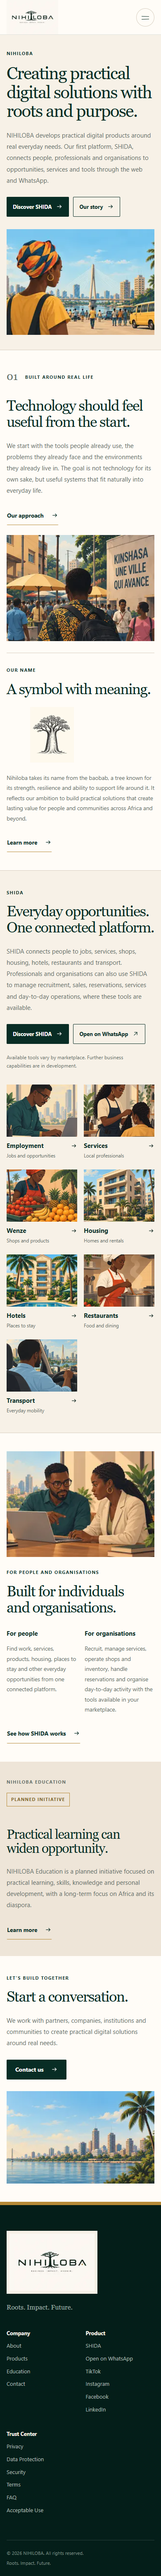
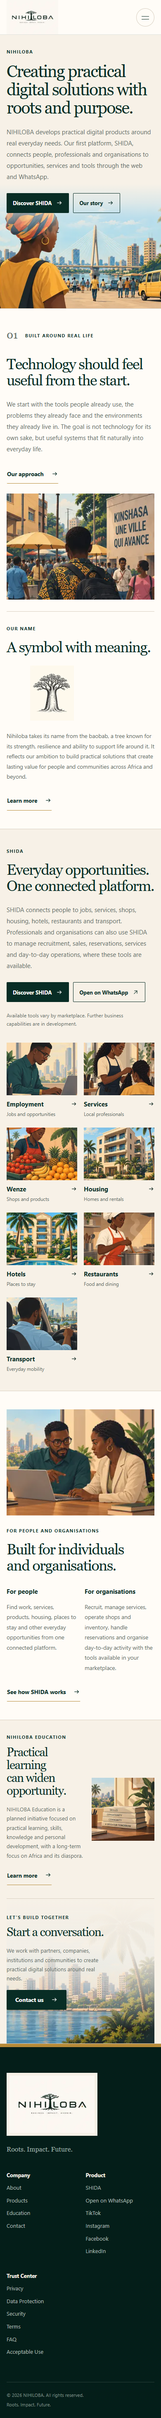
Refine homepage imagery to match editorial mockup
- Add skills illustration to Education
- Blend hero and contact images behind the text
- Place Education and Contact side by side on desktop
- Fix renamed people image reference
- Update EN/FR responsive verification

diff --git a/app/components/pages/home-page.css b/app/components/pages/home-page.css
@@ -10,9 +10,6 @@
 .home-editorial .button-text { min-height: 44px; }
 .home-image { position: relative; min-width: 0; overflow: hidden; aspect-ratio: 4 / 3; background: var(--cream); }
 .home-image img { object-fit: cover; }
-.home-hero { background: var(--cream); border-bottom: 1px solid var(--line); }
-.home-hero-grid { display: grid; grid-template-columns: 1fr 1.05fr; gap: 64px; align-items: center; padding-block: 66px; }
-.home-hero-image { aspect-ratio: 1 / 1.08; }
 .home-origins { display: grid; grid-template-columns: minmax(0, 2.3fr) minmax(0, 1fr); gap: 40px; padding-block: 80px; }
 .home-index { font-family: Georgia, serif; font-size: 1.6rem; font-weight: 400; letter-spacing: 0; color: var(--muted); }
 .home-approach-grid { display: grid; grid-template-columns: 1.05fr 1fr; gap: 30px; align-items: start; margin-top: 12px; }
@@ -32,24 +29,18 @@
 .home-market-title svg { width: 16px; height: 16px; flex-shrink: 0; }
 .home-markets p { margin: 3px 0 0; color: var(--muted); font-size: .73rem; line-height: 1.5; }
 .home-markets a:hover h3 { text-decoration: underline; text-underline-offset: 4px; }
-.home-people, .home-contact { display: grid; grid-template-columns: 1fr 1fr; gap: 64px; align-items: center; padding-block: 80px; }
+.home-people { display: grid; grid-template-columns: 1fr 1fr; gap: 64px; align-items: center; padding-block: 80px; }
 .home-people > .home-image { aspect-ratio: 1.15; }
 .home-audiences { display: grid; grid-template-columns: 1fr 1fr; gap: 28px; margin-top: 30px; }
 .home-audiences .home-body { font-size: .85rem; margin-top: 12px; }
-.home-education { padding-block: 55px; }
-.home-education .planned-label { display: inline-block; margin-top: 18px; }
-.home-editorial .home-education h2 { max-width: 23ch; font-size: clamp(2rem, 3vw, 2.7rem); }
-.home-contact .home-image { aspect-ratio: 1.6; }
 @media (max-width: 1100px) {
-  .home-hero-grid, .home-shida-grid, .home-people, .home-contact { gap: 36px; }
+  .home-hero-grid, .home-shida-grid, .home-people { gap: 36px; }
   .home-origins { gap: 28px; }
   .home-name { padding-left: 28px; }
   .home-approach-grid { gap: 22px; }
 }
 @media (max-width: 940px) {
-  .home-hero-grid { grid-template-columns: 1fr 1fr; padding-block: 48px; gap: 28px; }
   .home-editorial h1 { font-size: clamp(2.7rem, 5.3vw, 3.5rem); }
-  .home-hero-image { aspect-ratio: 3 / 4; }
   .home-origins { grid-template-columns: 1fr; padding-block: 56px; }
   .home-approach-grid { grid-template-columns: 1.3fr 1fr; gap: 40px; }
   .home-name { border-left: 0; border-top: 1px solid var(--line); padding: 30px 0 0; display: grid; grid-template-columns: 1fr 220px; column-gap: 40px; }
@@ -60,13 +51,10 @@
   .home-shida-grid h2 { max-width: 25ch; }
   .home-people { grid-template-columns: 1fr; padding-block: 56px; }
   .home-people > .home-image { aspect-ratio: 1.8; }
-  .home-contact { padding-block: 56px; }
 }
 @media (max-width: 700px) {
-  .home-hero-grid { grid-template-columns: 1fr; padding-block: 36px; gap: 30px; }
   .home-editorial h1 { max-width: 14ch; font-size: clamp(2.65rem, 10.8vw, 3.4rem); margin-block: 16px 22px; }
   .home-editorial h2 { font-size: 2.25rem; }
-  .home-hero-image { aspect-ratio: 1.4; }
   .home-actions { gap: 10px; }
   .home-actions .button { padding-inline: 14px; gap: 10px; font-size: .8rem; }
   .home-origins { padding-block: 44px; }
@@ -76,12 +64,59 @@
   .home-name .home-image { max-width: 220px; }
   .home-shida { padding-block: 44px; }
   .home-markets { grid-template-columns: repeat(2, minmax(0, 1fr)); gap: 24px 16px; }
-  .home-people, .home-contact { padding-block: 44px; gap: 28px; }
+  .home-people { padding-block: 44px; gap: 28px; }
   .home-people > .home-image { aspect-ratio: 1.4; }
   .home-audiences { gap: 20px; }
-  .home-education { padding-block: 40px; }
-  .home-contact { grid-template-columns: 1fr; }
 }
 @media (max-width: 360px) {
   .home-audiences { grid-template-columns: 1fr; gap: 0; }
+}
+
+/* Fade the supplied artwork into the paper, keeping the copy above it. */
+.home-hero { position: relative; isolation: isolate; overflow: hidden; background: var(--cream); border-bottom: 1px solid var(--line); }
+.home-hero-grid { position: relative; z-index: 1; padding-block: 52px; min-height: 510px; display: flex; align-items: center; pointer-events: none; }
+.home-hero-copy { width: 54%; pointer-events: auto; }
+.home-hero-copy h1 { max-width: 17ch; font-size: clamp(2.8rem, 4.4vw, 4rem); }
+.home-hero-copy .home-body { max-width: 43ch; }
+.home-hero .home-hero-image { position: absolute; inset: 0 0 0 auto; width: 64%; height: 100%; aspect-ratio: auto; z-index: 0; }
+.home-hero-image img { object-position: center; }
+.home-hero-image::after { content: ""; position: absolute; inset: 0; background: linear-gradient(90deg, var(--cream) 0%, var(--cream) 5%, rgba(247,241,231,.96) 12%, rgba(247,241,231,.65) 18%, transparent 28%); }
+.home-closing { border-block: 1px solid var(--line); background: var(--cream); }
+.home-closing-grid { display: grid; grid-template-columns: 1fr 1fr; }
+.home-education { display: grid; grid-template-columns: 1.3fr 1fr; gap: 24px; align-items: center; padding: 26px 24px 26px 0; }
+.home-editorial .home-closing h2 { margin-block: 12px 18px; font-size: clamp(1.75rem, 2.3vw, 2.2rem); }
+.home-closing .home-body { font-size: .82rem; line-height: 1.7; margin-bottom: 16px; }
+.home-education .home-image { aspect-ratio: 1 / 1.15; }
+.home-contact { position: relative; isolation: isolate; display: flex; align-items: center; padding: 32px 0 32px 28px; border-left: 1px solid var(--line); }
+.home-contact-copy { position: relative; z-index: 1; width: 85%; }
+.home-contact-copy .home-body { max-width: 36ch; }
+.home-contact > .home-image { position: absolute; inset: 0; width: 100%; height: 100%; aspect-ratio: auto; z-index: 0; }
+.home-contact > .home-image img { object-position: right bottom; }
+.home-contact > .home-image::after { content: ""; position: absolute; inset: 0; background: linear-gradient(90deg, var(--cream) 2%, rgba(247,241,231,.97) 22%, rgba(247,241,231,.75) 42%, transparent 80%), linear-gradient(180deg, var(--cream), rgba(247,241,231,.88) 40%, transparent 85%); }
+@media (max-width: 940px) {
+  .home-hero-copy { width: 62%; }
+  .home-hero-grid { min-height: 470px; padding-block: 40px; }
+  .home-hero-copy h1 { font-size: clamp(2.7rem, 5.3vw, 3.5rem); }
+  .home-hero-copy .home-body { max-width: 37ch; }
+  .home-closing-grid { grid-template-columns: 1fr; }
+  .home-education { padding: 32px 0; grid-template-columns: 1.4fr 1fr; gap: 36px; }
+  .home-education .home-image { aspect-ratio: 1.2; }
+  .home-contact { border-left: 0; border-top: 1px solid var(--line); min-height: 310px; padding: 36px 0; }
+  .home-contact-copy { width: 65%; }
+}
+@media (max-width: 700px) {
+  .home-hero-grid { min-height: 0; padding-block: 32px 230px; }
+  .home-hero-copy { width: 100%; }
+  .home-hero-copy h1 { max-width: 16ch; font-size: clamp(2.5rem, 10.5vw, 3.4rem); }
+  .home-hero-copy .home-body { max-width: 48ch; }
+  .home-hero .home-hero-image { top: auto; bottom: 0; width: 100%; height: 300px; }
+  .home-hero-image img { object-position: center 60%; }
+  .home-hero-image::after { background: linear-gradient(180deg, var(--cream), rgba(247,241,231,.8) 15%, transparent 45%); }
+  .home-education { gap: 16px; grid-template-columns: 1.25fr 1fr; }
+  .home-education .home-image { aspect-ratio: 1 / 1.4; }
+  .home-education .home-image img { object-fit: contain; }
+  .home-editorial .home-closing h2 { font-size: 1.8rem; }
+  .home-contact { min-height: 350px; align-items: start; }
+  .home-contact-copy { width: 90%; }
+  .home-contact > .home-image::after { background: linear-gradient(180deg, var(--cream), rgba(247,241,231,.94) 35%, rgba(247,241,231,.6) 60%, transparent 90%); }
 }

diff --git a/app/components/pages/home-page.tsx b/app/components/pages/home-page.tsx
@@ -27,9 +27,9 @@ export function HomePage({ locale }: { locale: Locale }) {
   return <div className="home-editorial">
     <section className="home-hero" aria-labelledby="home-title">
       <div className="container home-hero-grid">
-        <div><p className="home-label">NIHILOBA</p><h1 id="home-title">{t.title}</h1><p className="home-body">{t.description}</p><div className="home-actions"><ButtonLink href={shida}>{t.discover}</ButtonLink><ButtonLink href={about} variant="secondary">{t.story}</ButtonLink></div></div>
-        <HomeImage name="hero-kinshasa" alt={t.alts[0]} className="home-hero-image" eager />
+        <div className="home-hero-copy"><p className="home-label">NIHILOBA</p><h1 id="home-title">{t.title}</h1><p className="home-body">{t.description}</p><div className="home-actions"><ButtonLink href={shida}>{t.discover}</ButtonLink><ButtonLink href={about} variant="secondary">{t.story}</ButtonLink></div></div>
       </div>
+      <HomeImage name="hero-kinshasa" alt={t.alts[0]} className="home-hero-image" sizes="(max-width: 700px) 100vw, 75vw" eager />
     </section>
 
     <div className="container home-origins">
@@ -49,10 +49,17 @@ export function HomePage({ locale }: { locale: Locale }) {
       })}</ul>
     </div></section>
 
-    <section className="container home-people" aria-labelledby="home-people-title"><HomeImage name="people-organization" alt={t.alts[3]} /><div><p className="home-label">{t.peopleLabel}</p><h2 id="home-people-title">{t.peopleTitle}</h2><div className="home-audiences"><div><h3>{t.people}</h3><p className="home-body">{t.peopleText}</p></div><div><h3>{t.organisations}</h3><p className="home-body">{t.organisationsText}</p></div></div><ButtonLink href={shida} variant="text">{t.how}</ButtonLink></div></section>
+    <section className="container home-people" aria-labelledby="home-people-title"><HomeImage name="people-organisation" alt={t.alts[3]} /><div><p className="home-label">{t.peopleLabel}</p><h2 id="home-people-title">{t.peopleTitle}</h2><div className="home-audiences"><div><h3>{t.people}</h3><p className="home-body">{t.peopleText}</p></div><div><h3>{t.organisations}</h3><p className="home-body">{t.organisationsText}</p></div></div><ButtonLink href={shida} variant="text">{t.how}</ButtonLink></div></section>
 
-    <section className="education-strip home-education" aria-labelledby="home-education-title"><div className="container editorial-split"><div><p className="home-label">NIHILOBA EDUCATION</p><span className="planned-label">{t.planned}</span></div><div><h2 id="home-education-title">{t.educationTitle}</h2><p className="home-body">{t.educationText}</p><ButtonLink href={localizedPath(locale, "/education")} variant="text">{t.learn}</ButtonLink></div></div></section>
-
-    <section className="container home-contact" aria-labelledby="home-contact-title"><div><p className="home-label">{t.contactLabel}</p><h2 id="home-contact-title">{t.contactTitle}</h2><p className="home-body">{t.contactText}</p><ButtonLink href={localizedPath(locale, "/contact")}>{t.contact}</ButtonLink></div><HomeImage name="contact-city" alt={t.alts[4]} /></section>
+    <div className="home-closing"><div className="container home-closing-grid">
+      <section className="home-education" aria-labelledby="home-education-title">
+        <div><p className="home-label">NIHILOBA EDUCATION</p><h2 id="home-education-title">{t.educationTitle}</h2><p className="home-body">{t.educationText}</p><ButtonLink href={localizedPath(locale, "/education")} variant="text">{t.learn}</ButtonLink></div>
+        <HomeImage name="skills" alt={t.skillsAlt} sizes="(max-width: 700px) 42vw, (max-width: 940px) 35vw, 240px" />
+      </section>
+      <section className="home-contact" aria-labelledby="home-contact-title">
+        <div className="home-contact-copy"><p className="home-label">{t.contactLabel}</p><h2 id="home-contact-title">{t.contactTitle}</h2><p className="home-body">{t.contactText}</p><ButtonLink href={localizedPath(locale, "/contact")}>{t.contact}</ButtonLink></div>
+        <HomeImage name="contact-city" alt={t.alts[4]} sizes="(max-width: 940px) 100vw, 50vw" />
+      </section>
+    </div></div>
   </div>;
 }

diff --git a/app/lib/home-copy.ts b/app/lib/home-copy.ts
@@ -7,7 +7,7 @@ type HomeCopy = {
   shidaTitle: string; shidaText: string; whatsapp: string; availability: string;
   peopleLabel: string; peopleTitle: string; people: string; peopleText: string;
   organisations: string; organisationsText: string; how: string;
-  educationTitle: string; educationText: string; planned: string;
+  skillsAlt: string; educationTitle: string; educationText: string; planned: string;
   contactLabel: string; contactTitle: string; contactText: string; contact: string;
   markets: readonly (readonly [string, string])[];
   alts: readonly string[];
@@ -28,12 +28,14 @@ export const homeCopy = {
     peopleLabel: "For people and organisations", peopleTitle: "Built for individuals and organisations.",
     people: "For people", peopleText: "Find work, services, products, housing, places to stay and other everyday opportunities from one connected platform.",
     organisations: "For organisations", organisationsText: "Recruit, manage services, operate shops and inventory, handle reservations and organise day-to-day activity with the tools available in your marketplace.", how: "See how SHIDA works",
+    skillsAlt: "Illustration of books labelled Skills, Opportunity, Community and A Brighter Tomorrow beside a plant",
     educationTitle: "Practical learning can widen opportunity.", educationText: "NIHILOBA Education is a planned initiative focused on practical learning, skills, knowledge and personal development, with a long-term focus on Africa and its diaspora.", planned: "Planned initiative",
     contactLabel: "Let’s build together", contactTitle: "Start a conversation.", contactText: "We work with partners, companies, institutions and communities to create practical digital solutions around real needs.", contact: "Contact us",
     markets: [["Employment", "Jobs and opportunities"], ["Services", "Local professionals"], ["Wenze", "Shops and products"], ["Housing", "Homes and rentals"], ["Hotels", "Places to stay"], ["Restaurants", "Food and dining"], ["Transport", "Everyday mobility"]],
     alts: ["Illustration of a woman overlooking a busy Kinshasa boulevard", "Illustration of a pedestrian among Kinshasa’s street markets", "An illustrated baobab with a broad trunk and spreading branches", "Illustration of two colleagues working together at a laptop", "Illustration of a city skyline across the water"],
   },
   fr: {
+    skillsAlt: "Illustration de livres sur les compétences, les opportunités, la communauté et un avenir meilleur, près d’une plante",
     title: "Créer des solutions numériques utiles, ancrées dans une vision.",
     description: "NIHILOBA développe des produits numériques conçus autour de besoins concrets du quotidien. Notre première plateforme, SHIDA, relie particuliers, professionnels et organisations aux opportunités, aux services et aux outils grâce au web et à WhatsApp.",
     discover: "Découvrir SHIDA", story: "Notre histoire", learn: "En savoir plus",

diff --git a/docs/homepage-redesign.md b/docs/homepage-redesign.md
@@ -40,3 +40,10 @@ Desktop combines an asymmetric split hero, approach/name columns and a three-col
 - Business/management statements are qualified by marketplace availability because existing SHIDA content describes further business capabilities as planned. The requested name copy is presented as brand symbolism.
 - Internal destination pages responded successfully, but marketplace data availability depends on the external backend. No WhatsApp message was sent.
 - Existing unrelated restaurant changes and supplied untracked assets were left intact. No deployment or commit was performed.
+
+
+## Mockup follow-up
+
+Added the supplied `skills.png` Education illustration with EN/FR alt text, and updated the renamed `people-organisation.png` reference. The hero is now edge-to-edge with a cream fade behind the live text. Education and Contact share a desktop row, and the contact city illustration blends beneath its copy. Mobile uses a vertical hero fade and stacks the closing sections. The artwork itself is unchanged; blending is CSS-only. The planned status remains explicit in the Education copy.
+
+The supplied mockup is now available as the composition reference. Shared header/footer behavior remains preserved. Browser evidence is refreshed for 13 images in both languages at all four sizes.
